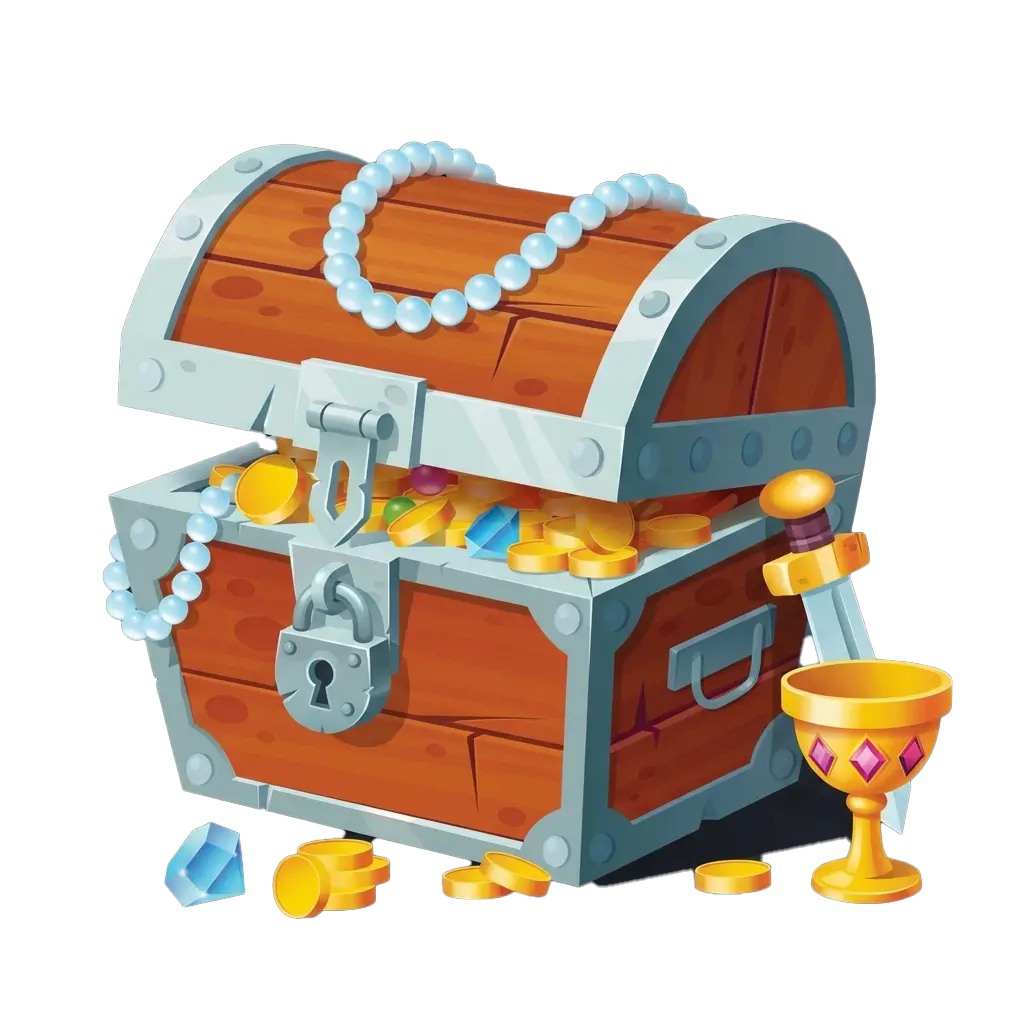
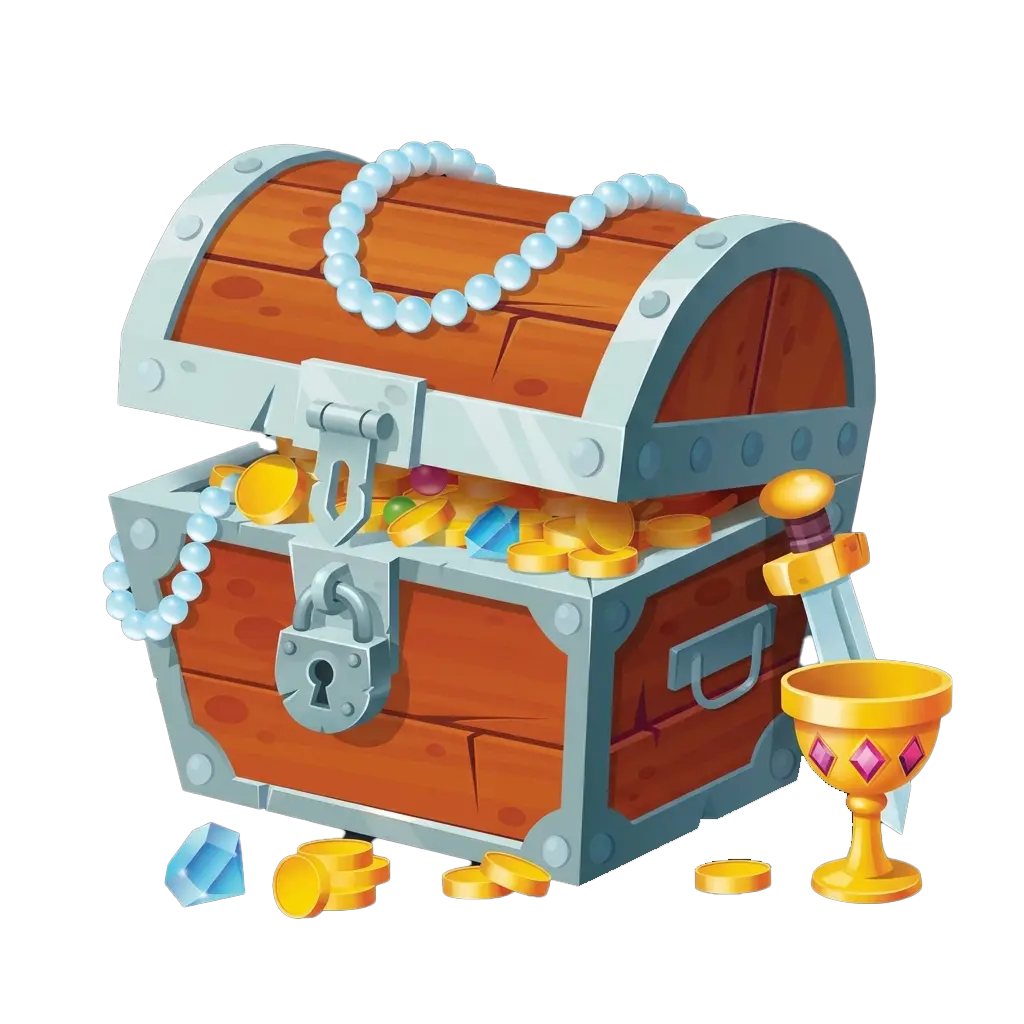
feat(kids): AAA pedagogical overhaul of Alphabet game layout

Changed region(s): [[0.5625, 0.75, 0.8438, 0.875]]

diff --git a/lib/features/kids_zone/presentation/widgets/layouts/kids_alphabet_layout.dart b/lib/features/kids_zone/presentation/widgets/layouts/kids_alphabet_layout.dart
@@ -66,112 +66,167 @@ class KidsAlphabetLayout extends StatelessWidget {
   }
 
   Widget _buildChalkboard(BuildContext context, KidsLoaded state, dynamic quest) {
-    return DragTarget<String>(
-      onAcceptWithDetails: (details) {
-        final text = details.data;
-        final isCorrect = (text == quest.correctAnswer);
-        di.sl<KidsTTSService>().speak(text);
-        context.read<KidsBloc>().add(SubmitKidsAnswer(isCorrect));
-      },
-      builder: (context, candidateData, rejectedData) {
-        final isHovering = candidateData.isNotEmpty;
-        return AnimatedContainer(
-          duration: const Duration(milliseconds: 200),
-          width: 320.w,
-          height: 220.h,
-          padding: EdgeInsets.all(12.r),
-          decoration: BoxDecoration(
-            color: isHovering ? const Color(0xFF2D6A4F) : const Color(0xFF1B4332), // Highlight green when hovering
-            borderRadius: BorderRadius.circular(16.r),
-            border: Border.all(
-              color: isHovering ? const Color(0xFFB07D45) : const Color(0xFF8B5A2B),
-              width: 12.r,
-            ), // Wooden frame
-            boxShadow: [
-              BoxShadow(
-                color: Colors.black.withValues(alpha: 0.2),
-                blurRadius: 15,
-                offset: const Offset(0, 10),
-              ),
-            ],
-          ),
-      child: Center(
-        child: Column(
-          mainAxisSize: MainAxisSize.min,
-          children: [
-            if (quest.instruction != null)
-              Padding(
-                padding: EdgeInsets.only(bottom: 12.h, left: 16.w, right: 16.w),
-                child: AutoSizeText(
-                  quest.instruction!,
-                  style: TextStyle(
-                    fontFamily: 'ComicSans',
-                    fontSize: 20.sp,
-                    fontWeight: FontWeight.bold,
-                    color: Colors.white.withValues(alpha: 0.9), // Chalk white
+    bool isRevealed = false; // Local state for progressive disclosure
+
+    return StatefulBuilder(
+      key: ValueKey(quest), // CRITICAL: Reset state when the question changes
+      builder: (context, setState) {
+        return DragTarget<String>(
+          onAcceptWithDetails: (details) {
+            final text = details.data;
+            final isCorrect = (text == quest.correctAnswer);
+            di.sl<KidsTTSService>().speak(text);
+            context.read<KidsBloc>().add(SubmitKidsAnswer(isCorrect));
+          },
+          builder: (context, candidateData, rejectedData) {
+            final isHovering = candidateData.isNotEmpty;
+            return AnimatedContainer(
+              duration: const Duration(milliseconds: 200),
+              width: 320.w,
+              height: 220.h,
+              padding: EdgeInsets.all(12.r),
+              decoration: BoxDecoration(
+                color: isHovering ? const Color(0xFF2D6A4F) : const Color(0xFF1B4332), // Highlight green when hovering
+                borderRadius: BorderRadius.circular(16.r),
+                border: Border.all(
+                  color: isHovering ? const Color(0xFFB07D45) : const Color(0xFF8B5A2B),
+                  width: 12.r,
+                ), // Wooden frame
+                boxShadow: [
+                  BoxShadow(
+                    color: Colors.black.withValues(alpha: 0.2),
+                    blurRadius: 15,
+                    offset: const Offset(0, 10),
                   ),
-                  textAlign: TextAlign.center,
-                  maxLines: 2,
-                  minFontSize: 12,
+                ],
+              ),
+              child: InkWell(
+                onTap: () {
+                  // Play the instruction sound
+                  if (quest.instruction != null) {
+                    di.sl<KidsTTSService>().speak(quest.instruction!);
+                  }
+                  // Reveal the visual clues if not already revealed
+                  if (!isRevealed) {
+                    setState(() => isRevealed = true);
+                  }
+                },
+                child: Center(
+                  child: Column(
+                    mainAxisSize: MainAxisSize.min,
+                    children: [
+                      // The instruction is now handled entirely by the Kidz Buddy mascot bubble!
+                      
+                      // The interactive mystery button / letter
+                      AnimatedSwitcher(
+                        duration: const Duration(milliseconds: 400),
+                        transitionBuilder: (Widget child, Animation<double> animation) {
+                          return ScaleTransition(scale: animation, child: child);
+                        },
+                        child: isRevealed
+                            ? ((quest.wordEmoji ?? quest.emoji) != null
+                                ? Text((quest.wordEmoji ?? quest.emoji)!, key: const ValueKey('emoji'), style: TextStyle(fontSize: 64.sp))
+                                : const SizedBox.shrink())
+                            : Column(
+                                key: const ValueKey('mystery'),
+                                mainAxisSize: MainAxisSize.min,
+                                children: [
+                                  Container(
+                                    padding: EdgeInsets.all(16.r),
+                                    decoration: BoxDecoration(
+                                      color: const Color(0xFFFDE68A).withValues(alpha: 0.2),
+                                      shape: BoxShape.circle,
+                                      border: Border.all(color: const Color(0xFFFDE68A), width: 3.w),
+                                    ),
+                                    child: Icon(
+                                      Icons.volume_up_rounded,
+                                      size: 40.sp,
+                                      color: const Color(0xFFFDE68A),
+                                    ),
+                                  ),
+                                  SizedBox(height: 12.h),
+                                  Container(
+                                    padding: EdgeInsets.symmetric(horizontal: 16.w, vertical: 8.h),
+                                    decoration: BoxDecoration(
+                                      color: const Color(0xFFFDE68A),
+                                      borderRadius: BorderRadius.circular(20.r),
+                                      boxShadow: [
+                                        BoxShadow(
+                                          color: Colors.black.withValues(alpha: 0.1),
+                                          offset: Offset(0, 4.h),
+                                        ),
+                                      ],
+                                    ),
+                                    child: Text(
+                                      "TAP ME!",
+                                      style: TextStyle(
+                                        fontFamily: 'Outfit',
+                                        fontSize: 14.sp,
+                                        fontWeight: FontWeight.w900,
+                                        color: const Color(0xFF78350F), // Etched wood color
+                                        letterSpacing: 1.5,
+                                      ),
+                                    ),
+                                  ),
+                                ],
+                              ),
+                      ),
+                      
+                      // The visual word clue (fade in without jumping layout)
+                      AnimatedOpacity(
+                        opacity: isRevealed ? 1.0 : 0.0,
+                        duration: const Duration(milliseconds: 500),
+                        child: quest.wordExample != null 
+                            ? Padding(
+                                padding: EdgeInsets.only(top: 8.h, left: 8.w, right: 8.w),
+                                child: AutoSizeText.rich(
+                                  TextSpan(
+                                    children: [
+                                      TextSpan(
+                                        text: _getMaskedWord(quest.wordExample!, quest.correctAnswer),
+                                        style: const TextStyle(color: Color(0xFFA7F3D0)), // Chalk mint for the word
+                                      ),
+                                      if (quest.phonetic != null)
+                                        TextSpan(
+                                          text: ' (/${quest.phonetic}/)',
+                                          style: const TextStyle(color: Color(0xFFFCD34D)), // Bright yellow to highlight phonetic sound
+                                        ),
+                                    ],
+                                  ),
+                                  style: TextStyle(
+                                    fontFamily: 'Outfit',
+                                    fontSize: 20.sp,
+                                    fontWeight: FontWeight.bold,
+                                  ),
+                                  textAlign: TextAlign.center,
+                                  maxLines: 1,
+                                  minFontSize: 12,
+                                ),
+                              )
+                            : const SizedBox.shrink(),
+                      ),
+
+                      if (quest.funFact != null)
+                        AnimatedOpacity(
+                          opacity: isRevealed ? 1.0 : 0.0,
+                          duration: const Duration(milliseconds: 500),
+                          child: Padding(
+                            padding: EdgeInsets.only(top: 12.h, left: 16.w, right: 16.w),
+                            child: _buildChalkText(
+                              quest.funFact!,
+                              const Color(0xFF93C5FD), // Light chalk blue
+                              12,
+                              maxLines: 2,
+                              minFontSize: 8,
+                            ),
+                          ),
+                        ),
+                    ],
+                  ),
                 ),
               ),
-            if (quest.wordEmoji != null)
-              Text(quest.wordEmoji!, style: TextStyle(fontSize: 48.sp))
-            else if (quest.emoji != null)
-              Text(quest.emoji!, style: TextStyle(fontSize: 48.sp)),
-            if (quest.capitalLetter != null)
-              Flexible(
-                child: AutoSizeText(
-                  quest.capitalLetter!,
-                  style: TextStyle(
-                    fontFamily: 'ComicSans',
-                    fontSize: 80.sp,
-                    fontWeight: FontWeight.w900,
-                    color: const Color(0xFFFDE68A), // Chalk yellow
-                  ),
-                  maxLines: 1,
-                  minFontSize: 40,
-                ),
-              ),
-            if (quest.wordExample != null) ...[
-              SizedBox(height: 8.h),
-              Padding(
-                padding: EdgeInsets.symmetric(horizontal: 8.w),
-                child: AutoSizeText(
-                  "${quest.wordExample!} ${quest.phonetic != null ? '(/${quest.phonetic}/)' : ''}",
-                  style: TextStyle(
-                    fontFamily: 'Outfit',
-                    fontSize: 20.sp,
-                    fontWeight: FontWeight.bold,
-                    color: const Color(0xFFA7F3D0), // Chalk mint
-                  ),
-                  textAlign: TextAlign.center,
-                  maxLines: 1,
-                  minFontSize: 12,
-                ),
-              ),
-            ],
-            if (quest.funFact != null) ...[
-              SizedBox(height: 12.h),
-              Padding(
-                padding: EdgeInsets.symmetric(horizontal: 16.w),
-                child: AutoSizeText(
-                  quest.funFact!,
-                  style: TextStyle(
-                    fontFamily: 'Outfit',
-                    fontSize: 12.sp,
-                    fontWeight: FontWeight.bold,
-                    color: const Color(0xFF93C5FD), // Light chalk blue
-                  ),
-                  textAlign: TextAlign.center,
-                  maxLines: 2,
-                  minFontSize: 8,
-                ),
-              ),
-            ],
-          ],
-        ),
-      ),
+            );
+          },
         );
       },
     );
@@ -216,10 +271,13 @@ class KidsAlphabetLayout extends StatelessWidget {
       feedback: Material(
         color: Colors.transparent,
         child: Transform.scale(
-          scale: 1.05,
-          child: Opacity(
-            opacity: 0.9,
-            child: blockWidget,
+          scale: 1.15, // Make it pop more when picked up
+          child: Transform.rotate(
+            angle: 0.08, // Playful slight tilt while dragging (AAA micro-interaction)
+            child: Opacity(
+              opacity: 0.95,
+              child: blockWidget,
+            ),
           ),
         ),
       ),
@@ -228,6 +286,38 @@ class KidsAlphabetLayout extends StatelessWidget {
         child: blockWidget,
       ),
       child: blockWidget,
+    );
+  }
+
+  /// Helper to mask the first letter of the word if it matches the correct answer
+  String _getMaskedWord(String word, String? correctAnswer) {
+    if (correctAnswer == null || correctAnswer.isEmpty) return word;
+    if (word.toLowerCase().startsWith(correctAnswer.toLowerCase())) {
+      return "_${word.substring(correctAnswer.length)}"; // e.g., Giraffe -> _iraffe
+    }
+    return word;
+  }
+
+  /// Helper to reduce DRY AutoSizeText boilerplate on the chalkboard
+  Widget _buildChalkText(
+    String text,
+    Color color,
+    double fontSize, {
+    String fontFamily = 'Outfit',
+    int maxLines = 1,
+    double minFontSize = 12,
+  }) {
+    return AutoSizeText(
+      text,
+      style: TextStyle(
+        fontFamily: fontFamily,
+        fontSize: fontSize.sp,
+        fontWeight: FontWeight.bold,
+        color: color,
+      ),
+      textAlign: TextAlign.center,
+      maxLines: maxLines,
+      minFontSize: minFontSize,
     );
   }
 }

diff --git a/lib/features/kids_zone/presentation/widgets/kids_game_base_screen.dart b/lib/features/kids_zone/presentation/widgets/kids_game_base_screen.dart
@@ -413,6 +413,16 @@ class KidsGameBaseScreenState extends State<KidsGameBaseScreen> {
           displayMessage = _hintText!;
         } else if (state.lastAnswerCorrect == null) {
           displayMessage = state.currentQuest.instruction;
+          
+          // Close the visual loophole in the Alphabet game!
+          // If the instruction is "Find the uppercase letter H" and the answer is "H", 
+          // we replace the 'H' with a blank so they can't just visually match it.
+          if (widget.gameType == 'alphabet' && state.currentQuest.correctAnswer != null) {
+            final answer = state.currentQuest.correctAnswer!;
+            // Use regex to replace the exact letter only when it's a standalone word
+            final regex = RegExp(r'\b' + RegExp.escape(answer) + r'\b', caseSensitive: true);
+            displayMessage = displayMessage.replaceAll(regex, "___");
+          }
         } else {
           // Hide message during feedback overlay
           displayMessage = "";
